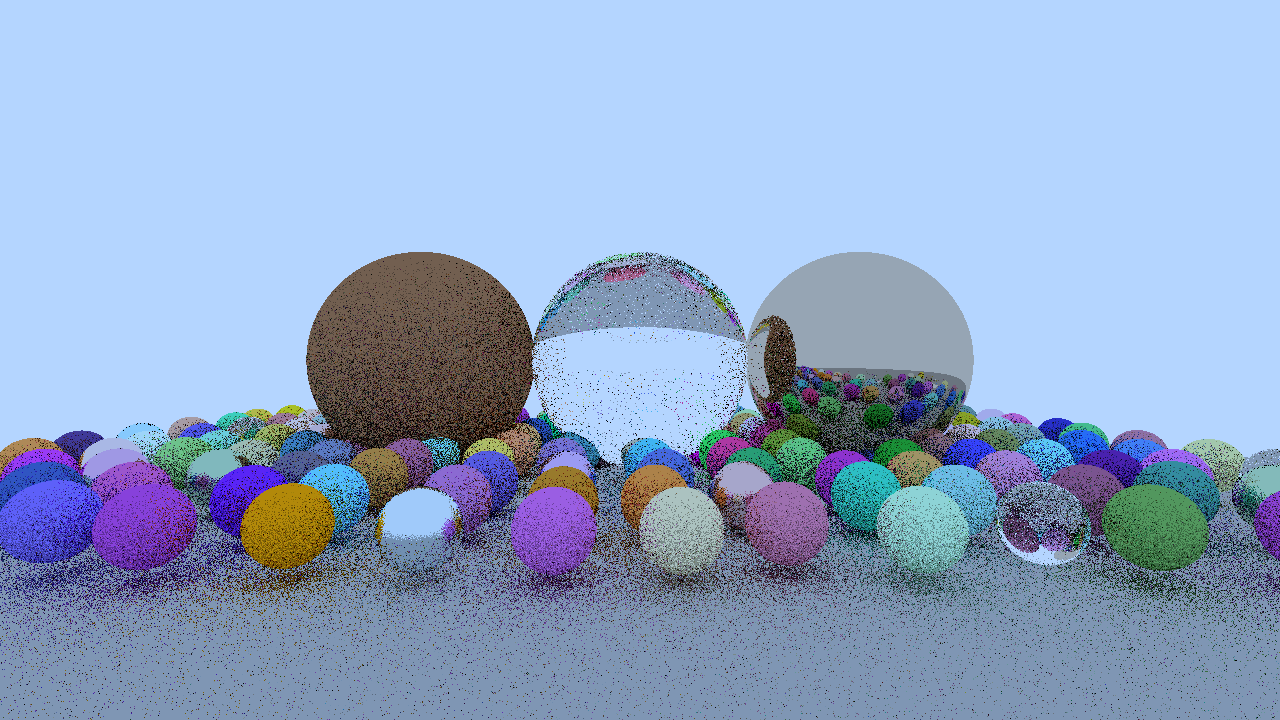
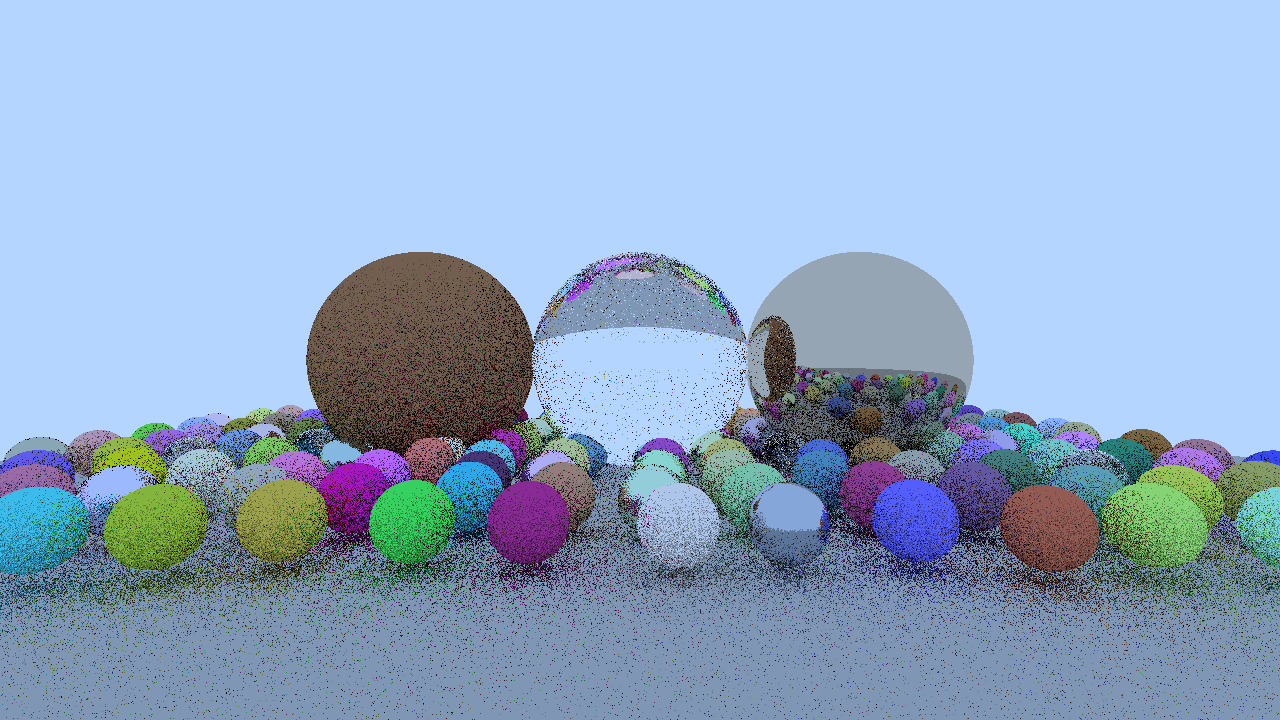
修正问题

Changed region(s): [[0.0, 0.3361, 1.0, 0.9472]]

diff --git a/model.go b/model.go
@@ -43,11 +43,11 @@ func (s *Sphere) Hit(ray *Ray) *HitDetail {
 		return nil
 	}
 	thc := Sqrt(s.Radius*s.Radius - d2)
-	rate := tca - thc   // 优先选择最近的
-	if rate <= MinOff { // 射线的反向，尝试另一个交点
+	rate := tca - thc  // 优先选择最近的
+	if rate <= 0.001 { // 射线的反向，尝试另一个交点
 		rate = tca + thc
 	}
-	if rate <= MinOff { // 仍然反向，没有交点
+	if rate <= 0.001 { // 仍然反向，没有交点
 		return nil
 	}
 	point := ray.At(rate)

diff --git a/utils.go b/utils.go
@@ -92,7 +92,7 @@ func RandUnitVec() mgl32.Vec3 {
 	for {
 		p := RandVec(-1, 1)
 		l := p.Len()
-		if l > MinOff && l <= 1.0 {
+		if l > 1e-80 && l <= 1.0 {
 			return p.Mul(1 / l)
 		}
 	}
@@ -107,7 +107,7 @@ func RandUnitVecWithNormal(normal mgl32.Vec3) mgl32.Vec3 {
 }
 
 func NearZero(v mgl32.Vec3) bool {
-	m := float32(0.0000_0001)
+	m := float32(1e-8)
 	return mgl32.Abs(v[0]) < m && mgl32.Abs(v[1]) < m && mgl32.Abs(v[2]) < m
 }
 
